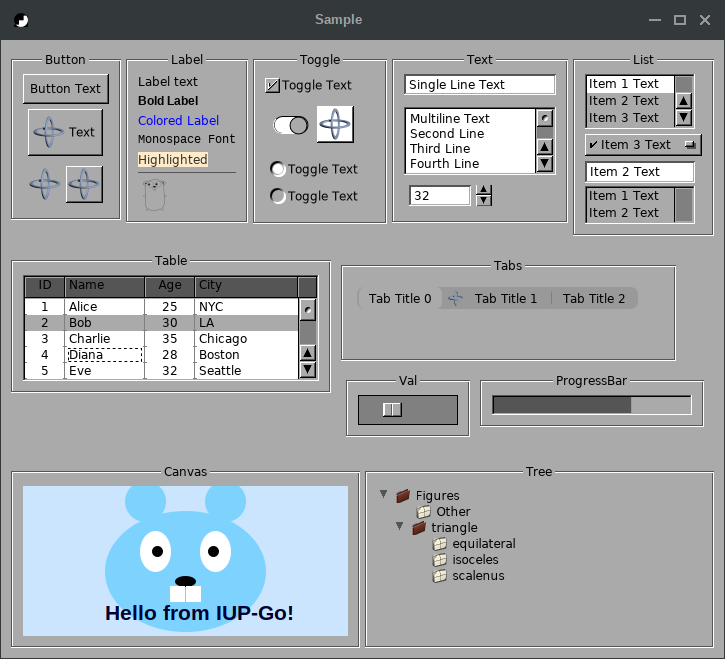
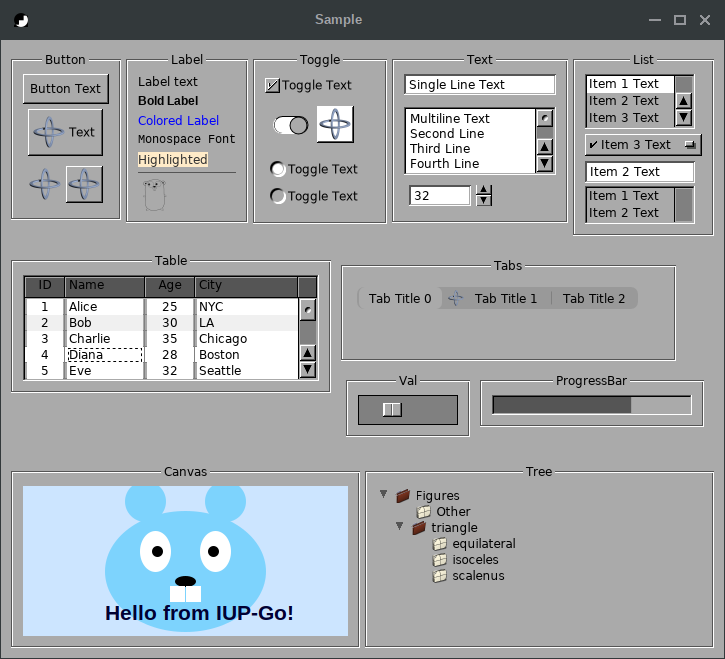
cocoa: Fix the Table, IupText, IupRadio and Quit

Changed region(s): [[0.0303, 0.4552, 0.4248, 0.5159], [0.2428, 0.5463, 0.2731, 0.5766], [0.1821, 0.5463, 0.2124, 0.5766]]

diff --git a/iup/external/src/cocoa/iupcocoa_table.m b/iup/external/src/cocoa/iupcocoa_table.m
@@ -147,6 +147,30 @@ static void cocoaTableDrawFocusRect(IupCocoaTableCellView* cellView, NSRect boun
 @end
 #endif
 
+static CGFloat cocoaTableTextFieldHeight(NSTextField* textField)
+{
+  static NSFont* cached_font = nil;
+  static CGFloat cached_height = 0;
+  NSFont* font = [textField font];
+  NSString* text = [textField stringValue];
+  BOOL single_line = [text rangeOfCharacterFromSet:[NSCharacterSet newlineCharacterSet]].location == NSNotFound;
+  CGFloat height;
+
+  if (single_line && font && font == cached_font)
+    return cached_height;
+
+  height = [textField intrinsicContentSize].height;
+
+  if (single_line && font)
+  {
+    [cached_font release];
+    cached_font = [font retain];
+    cached_height = height;
+  }
+
+  return height;
+}
+
 @implementation IupCocoaTableCellView
 
 @synthesize isFocusedCell;
@@ -195,7 +219,7 @@ static void cocoaTableDrawFocusRect(IupCocoaTableCellView* cellView, NSRect boun
 
   if (self.textField)
   {
-    CGFloat textHeight = [self.textField intrinsicContentSize].height;
+    CGFloat textHeight = cocoaTableTextFieldHeight(self.textField);
 #ifdef GNUSTEP
     /* GNUstep NSTextField inherits NSView's (-1,-1) intrinsicContentSize; fill the cell. */
     if (textHeight <= 0 || textHeight > cellHeight) textHeight = cellHeight;
@@ -562,11 +586,20 @@ static void cocoaTableSetCellValue(Ihandle* ih, int lin, int col, const char* va
   [row replaceObjectAtIndex:col withObject:str];
 }
 
+static BOOL cocoaTableUsesSystemRowColors(Ihandle* ih)
+{
+#ifdef GNUSTEP
+  (void)ih;
+  return NO;
+#else
+  return iupAttribGetBoolean(ih, "ALTERNATEROWS") &&
+         !iupAttribGet(ih, "EVENROWCOLOR") && !iupAttribGet(ih, "ODDROWCOLOR");
+#endif
+}
+
 static void cocoaTableUpdateAlternatingRows(Ihandle* ih, NSTableView* tableView)
 {
-  BOOL system_colors = iupAttribGetBoolean(ih, "ALTERNATEROWS") &&
-                       !iupAttribGet(ih, "EVENROWCOLOR") && !iupAttribGet(ih, "ODDROWCOLOR");
-  [tableView setUsesAlternatingRowBackgroundColors:system_colors];
+  [tableView setUsesAlternatingRowBackgroundColors:cocoaTableUsesSystemRowColors(ih)];
 }
 
 static NSColor* cocoaTableGetRowBackgroundColor(Ihandle* ih, int row)
@@ -576,8 +609,12 @@ static NSColor* cocoaTableGetRowBackgroundColor(Ihandle* ih, int row)
 
   char* bgcolor = iupAttribGetId2(ih, "BGCOLOR", lin, 0);
 
-  if (!bgcolor && (iupAttribGet(ih, "EVENROWCOLOR") || iupAttribGet(ih, "ODDROWCOLOR")))
+  if (!bgcolor && !cocoaTableUsesSystemRowColors(ih) && iupAttribGetBoolean(ih, "ALTERNATEROWS"))
+  {
     bgcolor = iupTableGetAlternateColor(ih, lin);
+    if (!bgcolor)
+      bgcolor = iupAttribGetStr(ih, "BGCOLOR");
+  }
 
   if (bgcolor && *bgcolor)
   {
@@ -1874,8 +1911,8 @@ static NSInteger cocoaTableRowOfField(Ihandle* ih, NSTableView* tableView, NSVie
   [cellView.textField setEditable:cocoaTableIsCellEditable(ih, col_1based)];
 #endif
 
-  /* Set delegate every time due to cell reuse */
-  [cellView.textField setDelegate:self];
+  if ([cellView.textField delegate] != self)
+    [cellView.textField setDelegate:self];
 
   IcocoaTableData* table_data = cocoaTableGetData(ih);
   NSNumber* colKey = @(col);
@@ -1932,7 +1969,7 @@ static NSInteger cocoaTableRowOfField(Ihandle* ih, NSTableView* tableView, NSVie
     xStart += imgSize + 4.0;
   }
 
-  CGFloat textHeight = [cellView.textField intrinsicContentSize].height;
+  CGFloat textHeight = cocoaTableTextFieldHeight(cellView.textField);
 #ifdef GNUSTEP
   if (textHeight <= 0 || textHeight > cellFrame.size.height) textHeight = cellFrame.size.height;
 #endif
@@ -3162,7 +3199,12 @@ IUP_SDK_API void iupdrvTableRedraw(Ihandle* ih)
   NSTableView* tableView = cocoaTableGetTableView(ih);
   if (tableView)
   {
-    [tableView reloadData];
+    NSRange visible = [tableView rowsInRect:[tableView visibleRect]];
+    if ([tableView numberOfRows] != ih->data->num_lin || visible.length == 0)
+      [tableView reloadData];
+    else
+      [tableView reloadDataForRowIndexes:[NSIndexSet indexSetWithIndexesInRange:visible]
+                           columnIndexes:[NSIndexSet indexSetWithIndexesInRange:NSMakeRange(0, [tableView numberOfColumns])]];
   }
   cocoaTableQueueAutoSize(ih);
 }

diff --git a/iup/external/src/cocoa/iupcocoa_open.m b/iup/external/src/cocoa/iupcocoa_open.m
@@ -4,6 +4,7 @@
  * See Copyright Notice in "iup.h"
  */
 
+#include <stdlib.h>
 #include <string.h>
 
 #include "iup.h"
@@ -11,17 +12,18 @@
 #include "iup_drvinfo.h"
 #include "iup_globalattrib.h"
 #include "iup_object.h"
+#include "iup_dlglist.h"
 
 #include "iupcocoa_drv.h"
 #ifdef GNUSTEP
 #include "iupunix_portal.h"
 #endif
 
-#ifdef GNUSTEP
-@interface IupGnustepApplicationDelegate : NSObject
+@interface IupCocoaApplicationDelegate : NSObject <NSApplicationDelegate>
 @end
 
-@implementation IupGnustepApplicationDelegate
+@implementation IupCocoaApplicationDelegate
+#ifdef GNUSTEP
 - (BOOL)application:(NSApplication*)sender openFile:(NSString*)filename
 {
   (void)sender;
@@ -34,9 +36,59 @@
   (void)sender;
   (void)filenames;
 }
+#else
+- (NSApplicationTerminateReply)applicationShouldTerminate:(NSApplication*)sender
+{
+  Ihandle** dialogs;
+  Ihandle* ih;
+  int i, count = 0;
+  (void)sender;
+
+  if (IupMainLoopLevel() == 0)
+    return NSTerminateNow;
+
+  for (ih = iupDlgListFirst(); ih; ih = iupDlgListNext())
+    count++;
+
+  dialogs = (Ihandle**)malloc((count + 1) * sizeof(Ihandle*));
+  if (!dialogs)
+    return NSTerminateNow;
+
+  count = 0;
+  for (ih = iupDlgListFirst(); ih; ih = iupDlgListNext())
+  {
+    if (ih->handle && iupdrvIsVisible(ih))
+      dialogs[count++] = ih;
+  }
+
+  for (i = 0; i < count; i++)
+  {
+    Icallback cb;
+    ih = dialogs[i];
+    if (!iupObjectCheck(ih) || !ih->handle || !iupdrvIsVisible(ih))
+      continue;
+
+    cb = IupGetCallback(ih, "CLOSE_CB");
+    if (cb && cb(ih) == IUP_IGNORE)
+    {
+      free(dialogs);
+      return NSTerminateCancel;
+    }
+
+    if (iupObjectCheck(ih))
+      IupHide(ih);
+  }
+
+  free(dialogs);
+  IupExitLoop();
+  return NSTerminateCancel;
+}
+#endif
 @end
 
-static IupGnustepApplicationDelegate* cocoa_gnustep_app_delegate = nil;
+static IupCocoaApplicationDelegate* cocoa_app_delegate = nil;
+
+#ifdef GNUSTEP
 
 @interface IupGnustepPortalSettings : NSObject
 {
@@ -301,13 +353,11 @@ static int cocoaOpen(void)
     [NSApp setActivationPolicy:NSApplicationActivationPolicyRegular];
   }
 
-#ifdef GNUSTEP
   if (![NSApp delegate])
   {
-    cocoa_gnustep_app_delegate = [[IupGnustepApplicationDelegate alloc] init];
-    [NSApp setDelegate:cocoa_gnustep_app_delegate];
+    cocoa_app_delegate = [[IupCocoaApplicationDelegate alloc] init];
+    [NSApp setDelegate:cocoa_app_delegate];
   }
-#endif
 
   /* [NSApp run] would do this, but IUP runs its own event loop */
   [NSApp finishLaunching];
@@ -411,13 +461,13 @@ IUP_SDK_API void iupdrvClose(void)
     cocoa_gnustep_portal_settings = nil;
   }
   iupUnixPortalSettingsClose();
-
-  if (cocoa_gnustep_app_delegate)
-  {
-    if ([NSApp delegate] == cocoa_gnustep_app_delegate)
-      [NSApp setDelegate:nil];
-    [cocoa_gnustep_app_delegate release];
-    cocoa_gnustep_app_delegate = nil;
-  }
 #endif
+
+  if (cocoa_app_delegate)
+  {
+    if ([NSApp delegate] == cocoa_app_delegate)
+      [NSApp setDelegate:nil];
+    [cocoa_app_delegate release];
+    cocoa_app_delegate = nil;
+  }
 }

diff --git a/iup/external/src/cocoa/iupcocoa_text.m b/iup/external/src/cocoa/iupcocoa_text.m
@@ -104,10 +104,31 @@ static void cocoaTextSetCorrections(NSTextView* text_view, BOOL enable)
 #endif
 }
 
+static NSRect cocoaTextCellCenterVertically(NSCell* cell, NSRect bounds, NSRect drawing_rect, BOOL* measuring)
+{
+  CGFloat natural, extra;
+
+  if (*measuring)
+    return drawing_rect;
+
+  *measuring = YES;
+  natural = [cell cellSizeForBounds:NSMakeRect(0, 0, bounds.size.width, 10000.0)].height;
+  *measuring = NO;
+
+  extra = floor((bounds.size.height - natural) / 2.0);
+  if (extra > 0)
+  {
+    drawing_rect.origin.y += extra;
+    drawing_rect.size.height -= extra;
+  }
+  return drawing_rect;
+}
+
 @interface IupCocoaTextFieldCell : NSTextFieldCell
 {
   CGFloat _horizPadding;
   CGFloat _vertPadding;
+  BOOL _measuring;
   BOOL _autoCorrect;
 }
 - (void)setIupPaddingHoriz:(CGFloat)horiz vert:(CGFloat)vert;
@@ -172,7 +193,7 @@ static void cocoaTextSetCorrections(NSTextView* text_view, BOOL enable)
   drawingRect.origin.y += adjustmentY;
   drawingRect.size.height -= (2.0 * adjustmentY);
 
-  return drawingRect;
+  return cocoaTextCellCenterVertically(self, rect, drawingRect, &_measuring);
 }
 
 @end
@@ -407,6 +428,7 @@ IUPCOCOA_TEXTFIELD_MOUSE_METHODS
 {
   CGFloat _horizPadding;
   CGFloat _vertPadding;
+  BOOL _measuring;
 }
 - (void)setIupPaddingHoriz:(CGFloat)horiz vert:(CGFloat)vert;
 @end
@@ -455,7 +477,7 @@ IUPCOCOA_TEXTFIELD_MOUSE_METHODS
   drawingRect.origin.y += adjustmentY;
   drawingRect.size.height -= (2.0 * adjustmentY);
 
-  return drawingRect;
+  return cocoaTextCellCenterVertically(self, rect, drawingRect, &_measuring);
 }
 
 @end

diff --git a/iup/external/src/cocoa/iupcocoa_toggle.m b/iup/external/src/cocoa/iupcocoa_toggle.m
@@ -780,6 +780,22 @@ static int cocoaToggleSetRightButtonAttrib(Ihandle* ih, const char* value)
   return 1;
 }
 
+static SEL cocoaToggleRadioAction(Ihandle* radio)
+{
+  char name[64];
+  SEL sel;
+  Class cls = [IupCocoaToggleReceiver class];
+
+  snprintf(name, sizeof(name), "iupRadioAction%p:", (void*)radio);
+  sel = sel_registerName(name);
+  if (!class_getInstanceMethod(cls, sel))
+  {
+    Method method = class_getInstanceMethod(cls, @selector(myToggleClickAction:));
+    class_addMethod(cls, sel, method_getImplementation(method), method_getTypeEncoding(method));
+  }
+  return sel;
+}
+
 static int cocoaToggleMapMethod(Ihandle* ih)
 {
   Ihandle* radio = iupRadioFindToggleParent(ih);
@@ -884,7 +900,7 @@ static int cocoaToggleMapMethod(Ihandle* ih)
 
   IupCocoaToggleReceiver* toggle_receiver = [[IupCocoaToggleReceiver alloc] init];
   [the_toggle setTarget:toggle_receiver];
-  [the_toggle setAction:@selector(myToggleClickAction:)];
+  [the_toggle setAction:radio ? cocoaToggleRadioAction(radio) : @selector(myToggleClickAction:)];
   objc_setAssociatedObject(the_toggle, IUP_COCOA_TOGGLE_RECEIVER_OBJ_KEY, (id)toggle_receiver, OBJC_ASSOCIATION_RETAIN_NONATOMIC);
   [toggle_receiver release];
 

diff --git a/docs/elem/iup_table.md b/docs/elem/iup_table.md
@@ -142,7 +142,7 @@ Can be "YES" or "NO". Default: "NO".
 
 **EVENROWCOLOR** (non-inheritable): Background color for even-numbered rows.
 Only used when ALTERNATEROWS=YES. Default: BGCOLOR 6% darker, or 6% lighter when BGCOLOR is dark.
-In macOS and GNUstep, when EVENROWCOLOR and ODDROWCOLOR are not defined, the system alternating colors are used.
+In macOS, when EVENROWCOLOR and ODDROWCOLOR are not defined, the system alternating colors are used.
 
 **ODDROWCOLOR** (non-inheritable): Background color for odd-numbered rows.
 Only used when ALTERNATEROWS=YES. Default: BGCOLOR.

diff --git a/docs/call/iup_close_cb.md b/docs/call/iup_close_cb.md
@@ -2,6 +2,7 @@
 
 Called just before a dialog is closed when the user clicks the close button of the title bar or an equivalent action.
 In Android, the Back button is the equivalent action; while the dialog's navigation drawer is open, Back closes the drawer instead.
+In macOS, the application menu Quit calls it for every visible dialog; IUP_IGNORE cancels the quit, otherwise the dialogs are hidden and the main loop ends.
 
 ### Callback
 
